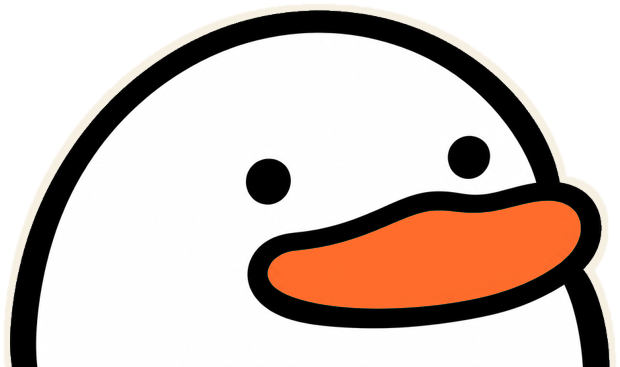
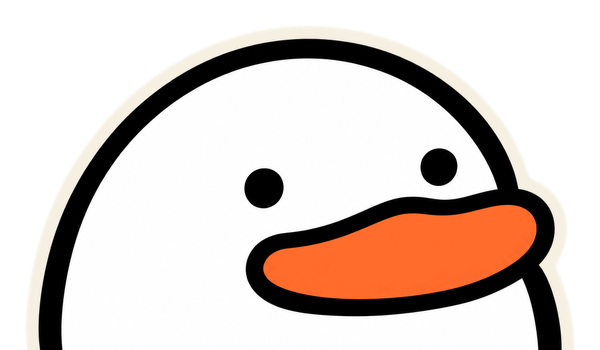
Duck: re-cut art with room around the head, calm rise instead of bounce
The duck PNGs were cropped flat at the top, so the head looked sliced
on Welcome. Re-cut both from the source art with a script, and swap the
spring + tilt for a short ease-out rise and fade that never overshoots.

Claude-Session: https://claude.ai/code/session_01Q8GFjWCZXwnj2nAcxjTkxh

diff --git a/src/ui/sunflower/Duck.tsx b/src/ui/sunflower/Duck.tsx
@@ -1,25 +1,26 @@
-// Ditch the duck, peeking over a card's top edge (design/v10/MOTION.md §4).
-// One image, so it only moves as a whole: it rises 14pt into place with a
-// 3° tilt that settles to 0. No blink, no idle loop. Reduce Motion: shown at rest.
+// Ditch the duck, peeking over a card's top edge.
+// One image, so it only moves as a whole: it rises 12pt from behind the card
+// and fades in, easing to a stop. No spring, no overshoot, no tilt, no loop:
+// it never travels past its resting spot, so it can't get clipped.
+// Reduce Motion: shown at rest.
 
 import { Image } from 'expo-image';
 import { useEffect } from 'react';
 import { type StyleProp, type ViewStyle } from 'react-native';
-import Animated, { useAnimatedStyle, useReducedMotion, useSharedValue, withDelay, withSpring } from 'react-native-reanimated';
+import Animated, { Easing, useAnimatedStyle, useReducedMotion, useSharedValue, withDelay, withTiming } from 'react-native-reanimated';
 
+import { DUCK_DARK, DUCK_H, DUCK_INK, DUCK_LIGHT, DUCK_PAD, DUCK_W } from './duckAsset';
 import { useIsDark } from './tokens';
 
-const LIGHT = require('../../../assets/brand/duck.png'); // 600×357
-const DARK = require('../../../assets/brand/duck-dark.png'); // 620×367
-
-/** How tall the peeking duck is for a given width. */
-export function duckHeight(width: number, dark: boolean) {
-  return Math.round(width * (dark ? 367 / 620 : 357 / 600));
-}
+const RISE = 12;
+const EASE = { duration: 420, easing: Easing.out(Easing.cubic) };
 
 /**
- * Place it inside a `position: relative` wrapper that holds the card.
- * `sink` is how far its bottom tucks behind the card.
+ * `width` is how wide the duck itself looks. The image box is a little
+ * bigger (the file has air around the head) and is offset so the duck
+ * lands exactly where `right`/`left` say.
+ * Place it inside a wrapper that holds the card; `sink` is how far its
+ * bottom tucks behind the card.
  */
 export function Duck({
   width,
@@ -41,30 +42,46 @@ export function Duck({
 }) {
   const dark = useIsDark();
   const reduce = useReducedMotion();
-  const h = duckHeight(width, dark);
-  const rise = useSharedValue(reduce ? 0 : 14);
-  const tilt = useSharedValue(reduce ? 0 : 3);
+  const boxW = width / DUCK_INK;
+  const boxH = (boxW * DUCK_H) / DUCK_W;
+  const air = (boxW * DUCK_PAD) / DUCK_W;
+  const rise = useSharedValue(reduce ? 0 : RISE);
+  const fade = useSharedValue(reduce ? 1 : 0);
 
   useEffect(() => {
     if (reduce) return;
-    rise.set(withDelay(delay, withSpring(0, { damping: 16, stiffness: 180 })));
-    tilt.set(withDelay(delay, withSpring(0, { damping: 16, stiffness: 180 })));
-  }, [reduce, delay, rise, tilt]);
+    rise.set(withDelay(delay, withTiming(0, EASE)));
+    fade.set(withDelay(delay, withTiming(1, EASE)));
+  }, [reduce, delay, rise, fade]);
 
   const anim = useAnimatedStyle(() => ({
-    transform: [{ translateY: rise.get() }, { rotate: `${tilt.get()}deg` }],
+    opacity: fade.get(),
+    transform: [{ translateY: rise.get() }],
   }));
 
-  const pos: ViewStyle = bottom !== undefined ? { bottom } : { top: -(h - sink) };
+  const pos: ViewStyle = bottom !== undefined ? { bottom } : { top: -(boxH - sink) };
   return (
     <Animated.View
       accessible={false}
       importantForAccessibility="no-hide-descendants"
       pointerEvents="none"
-      style={[{ position: 'absolute', width, height: h, right, left, overflow: 'hidden' }, pos, style]}
+      style={[
+        {
+          position: 'absolute',
+          width: boxW,
+          height: boxH,
+          right: right === undefined ? undefined : right - air,
+          left: left === undefined ? undefined : left - air,
+          // Clips only the bottom while he rises from behind the card;
+          // the art has air on the other three sides.
+          overflow: 'hidden',
+        },
+        pos,
+        style,
+      ]}
     >
-      <Animated.View style={[{ width, height: h, transformOrigin: 'bottom' }, anim]}>
-        <Image source={dark ? DARK : LIGHT} style={{ width, height: h }} contentFit="contain" transition={0} />
+      <Animated.View style={[{ width: boxW, height: boxH }, anim]}>
+        <Image source={dark ? DUCK_DARK : DUCK_LIGHT} style={{ width: boxW, height: boxH }} contentFit="contain" transition={0} />
       </Animated.View>
     </Animated.View>
   );

diff --git a/src/ui/sunflower/LogoTile.tsx b/src/ui/sunflower/LogoTile.tsx
@@ -11,8 +11,7 @@ import { SERVICE_BY_ID } from '@/catalog/services';
 import { brand, tileRadius, usePalette } from './tokens';
 import { F } from './type';
 
-const DUCK = require('../../../assets/brand/duck.png');
-const DUCK_RATIO = 357 / 600; // duck.png is 600×357
+import { DUCK_H, DUCK_INK, DUCK_LIGHT, DUCK_W } from './duckAsset';
 
 const continuous = Platform.OS === 'ios' ? ({ borderCurve: 'continuous' } as const) : null;
 
@@ -69,7 +68,8 @@ export function LogoTile({
 
 /** The Ditch app icon: sunflower tile, the duck centred and resting on the bottom edge. */
 export function DuckIcon({ size = 38, style }: { size?: number; style?: StyleProp<ViewStyle> }) {
-  const w = Math.round(size * 0.86);
+  // The file has air around the head; size it so the duck fills ~86% of the tile.
+  const w = Math.round((size * 0.86) / DUCK_INK);
   return (
     <View
       accessible={false}
@@ -77,8 +77,8 @@ export function DuckIcon({ size = 38, style }: { size?: number; style?: StylePro
       style={[{ width: size, height: size, borderRadius: tileRadius(size), overflow: 'hidden', backgroundColor: brand.sunflower }, continuous, style]}
     >
       <Image
-        source={DUCK}
-        style={{ position: 'absolute', width: w, height: w * DUCK_RATIO, left: Math.round((size - w) / 2), bottom: 0 }}
+        source={DUCK_LIGHT}
+        style={{ position: 'absolute', width: w, height: (w * DUCK_H) / DUCK_W, left: Math.round((size - w) / 2), bottom: 0 }}
         contentFit="contain"
         transition={0}
       />

diff --git a/src/ui/sunflower/duckAsset.ts b/src/ui/sunflower/duckAsset.ts
@@ -1,0 +1,13 @@
+// The duck art (assets/brand/duck*.png), cut by scripts/brand/cut-duck.py.
+// Both files are 600×350 with 36px of air above and beside the head, so
+// nothing gets sliced off. The bottom edge is flush: it tucks behind cards.
+
+export const DUCK_LIGHT = require('../../../assets/brand/duck.png');
+export const DUCK_DARK = require('../../../assets/brand/duck-dark.png');
+
+export const DUCK_W = 600;
+export const DUCK_H = 350;
+/** Air around the head, in file pixels. */
+export const DUCK_PAD = 36;
+/** Share of the file's width the duck itself fills. */
+export const DUCK_INK = (DUCK_W - 2 * DUCK_PAD) / DUCK_W;

diff --git a/scripts/brand/cut-duck.py b/scripts/brand/cut-duck.py
@@ -1,0 +1,101 @@
+"""Cut Ditch the duck out of the source art, with room around his head.
+
+Source: design/icon/hf-6-peek.png (1024x1024, white background, teal bill).
+Writes:
+  assets/brand/duck.png       light: transparent background, tangerine bill
+  assets/brand/duck-dark.png  dark: same duck with a thin cream rim
+
+The bottom edge stays flush (the duck tucks behind a card there). The top,
+left and right get padding so nothing is ever sliced off, even mid-animation.
+
+Run: python3 scripts/brand/cut-duck.py
+"""
+
+from pathlib import Path
+
+import numpy as np
+from PIL import Image, ImageDraw, ImageFilter
+
+ROOT = Path(__file__).resolve().parents[2]
+SRC = ROOT / 'design/icon/hf-6-peek.png'
+OUT = ROOT / 'assets/brand'
+
+TANGERINE = np.array([255, 108, 44], dtype=float)
+CREAM = (246, 240, 227)
+PAD = 40  # source pixels of air above and beside the head
+RIM = 24  # dark-mode rim, in source pixels
+WIDTH = 600  # exported width
+
+
+def cut():
+    rgb = np.array(Image.open(SRC).convert('RGB')).astype(float)
+    h, w, _ = rgb.shape
+    lum = rgb.mean(axis=2)
+
+    # Outside = everything reachable from the corners without crossing the
+    # black outline. The face is white too, but the outline walls it in.
+    walls = Image.fromarray(np.where(lum > 24, 255, 0).astype(np.uint8)).copy()
+    for seed in [(0, 0), (w - 1, 0), (0, h - 1), (w - 1, h - 1)]:
+        if walls.getpixel(seed) == 255:
+            ImageDraw.floodfill(walls, seed, 128)
+    outside = np.array(walls) == 128
+    if outside.mean() > 0.8 or outside.mean() < 0.2:
+        raise SystemExit(f'flood fill looks wrong: {outside.mean():.2f} of the image is background')
+
+    # Outside pixels are the outline's anti-aliased edge over white:
+    # keep them as black with alpha from how dark they are.
+    alpha = np.where(outside, (255 - lum) / 255, 1.0)
+    alpha[outside & (lum > 250)] = 0
+    color = rgb.copy()
+    color[outside] = 0
+
+    # Teal bill -> tangerine. Bill pixels sit between black and teal.
+    chroma = rgb.max(axis=2) - rgb.min(axis=2)
+    bill = (~outside) & (chroma > 24)
+    k = np.clip(rgb[..., 1] / 161.0, 0, 1)
+    color[bill] = TANGERINE * k[bill, None]
+
+    rgba = np.dstack([color, alpha * 255]).clip(0, 255).astype(np.uint8)
+    img = Image.fromarray(rgba, 'RGBA')
+
+    # Crop to the duck, then add air on top and both sides. Bottom stays flush.
+    ys, xs = np.where(alpha > 0.02)
+    top, left, right = ys.min(), xs.min(), xs.max()
+    box = (left, top, right + 1, h)
+    duck = img.crop(box)
+    pad = PAD + RIM
+    canvas = Image.new('RGBA', (duck.width + 2 * pad, duck.height + pad), (0, 0, 0, 0))
+    canvas.paste(duck, (pad, pad))
+    return canvas
+
+
+def with_rim(img):
+    a = img.getchannel('A')
+    # Grow the silhouette into a round, crisp-edged rim: blur, then cut the
+    # blur at a low level with a steep ramp so the edge stays anti-aliased.
+    grown = a.filter(ImageFilter.GaussianBlur(RIM / 2))
+    g = np.array(grown).astype(float)
+    rim_a = np.clip((g - 4) * 24, 0, 255).astype(np.uint8)
+    rim = Image.new('RGBA', img.size, CREAM + (0,))
+    rim.putalpha(Image.fromarray(rim_a))
+    out = Image.new('RGBA', img.size, (0, 0, 0, 0))
+    out.alpha_composite(rim)
+    out.alpha_composite(img)
+    return out
+
+
+def export(img, name):
+    scale = WIDTH / img.width
+    small = img.resize((WIDTH, round(img.height * scale)), Image.LANCZOS)
+    small.save(OUT / name, optimize=True)
+    a = np.array(small)[..., 3]
+    ys, xs = np.where(a > 0)
+    print(f'{name}: {small.width}x{small.height}, ink from row {ys.min()} col {xs.min()}-{xs.max()}')
+    return small.size
+
+
+if __name__ == '__main__':
+    light = cut()
+    size_l = export(light, 'duck.png')
+    size_d = export(with_rim(light), 'duck-dark.png')
+    print('Update DUCK_SIZE in src/ui/sunflower/duckAsset.ts if these changed:', size_l, size_d)
